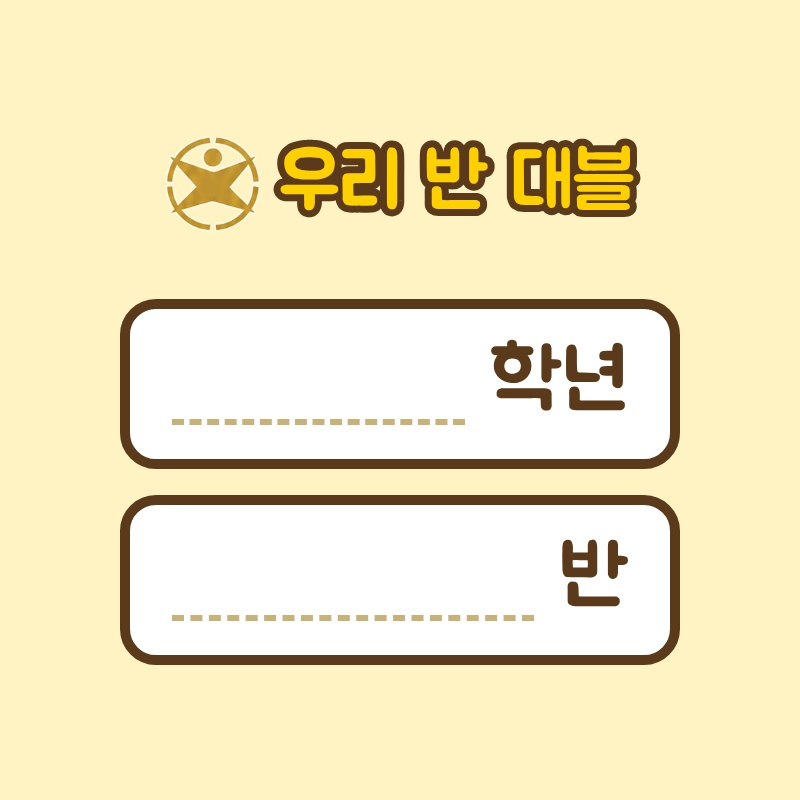
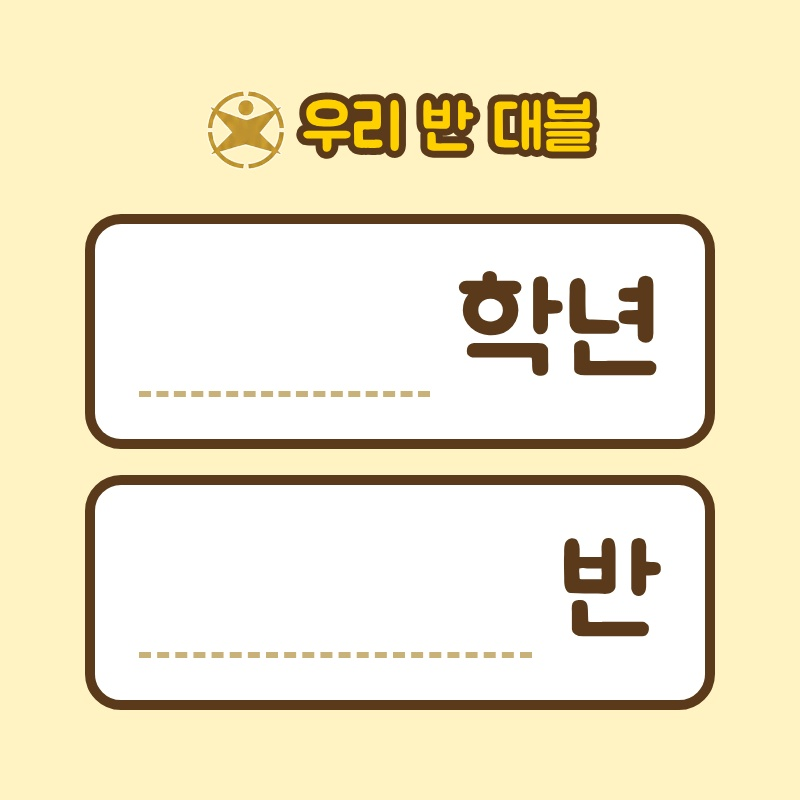
케이스: 학년·반 글씨와 칸 크게
Claude-Session: https://claude.ai/code/session_01A6j3E2GbQgfSGdkSmcN9hb

diff --git a/dobble/case/digital.html b/dobble/case/digital.html
@@ -29,13 +29,13 @@ body { margin: 0; background: #fff; }
 .cards img:nth-child(2) { left: 125px; top: 10px; z-index: 2; }
 .cards img:nth-child(3) { left: 230px; transform: rotate(14deg); }
 .play .t2 { margin-top: 30px; }
-.head { display: flex; align-items: center; gap: 18px; margin-bottom: 40px; }
-.head img { width: 96px; height: 96px; object-fit: contain; }
-.head span { font-size: 78px; color: #ffd000; -webkit-text-stroke: 14px #5a3a1a; paint-order: stroke fill; }
-.fill { width: 560px; height: 170px; background: #fff; border: 10px solid #5a3a1a; border-radius: 36px; box-sizing: border-box;
-  display: flex; align-items: flex-end; padding: 0 42px 34px; gap: 24px; margin-top: 26px; }
+.head { display: flex; align-items: center; gap: 16px; margin-bottom: 18px; }
+.head img { width: 80px; height: 80px; object-fit: contain; }
+.head span { font-size: 64px; color: #ffd000; -webkit-text-stroke: 14px #5a3a1a; paint-order: stroke fill; }
+.fill { width: 630px; height: 235px; background: #fff; border: 10px solid #5a3a1a; border-radius: 36px; box-sizing: border-box;
+  display: flex; align-items: flex-end; padding: 0 44px 42px; gap: 26px; margin-top: 26px; }
 .fill .line { flex: 1; border-bottom: 6px dashed #c9b27a; height: 1px; }
-.fill .w { font-size: 84px; line-height: 1; color: #5a3a1a; }
+.fill .w { font-size: 124px; line-height: 1; color: #5a3a1a; }
 </style></head><body>
 <div class="sq off" id="d1_digital_off"><div class="toggle"><div class="knob"><div class="phone"><span>Zz</span></div></div><div class="lbl">OFF</div></div>
 <div class="t2">디지털 OFF</div><div class="t1">스마트폰은 잠깐 쉬어요</div></div>
